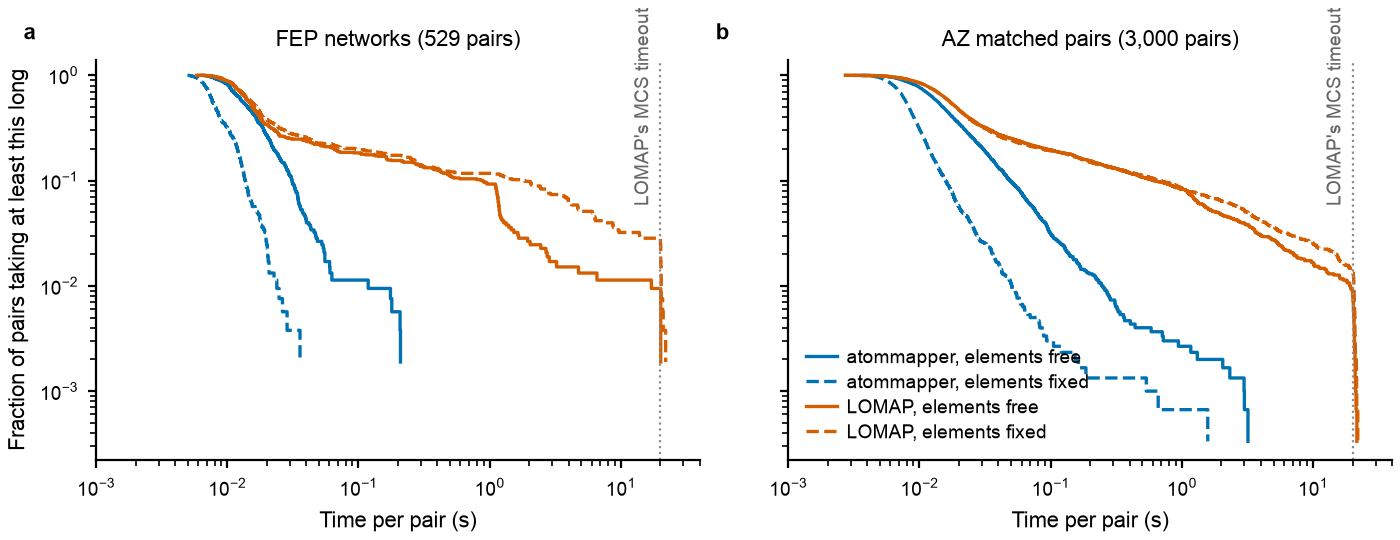
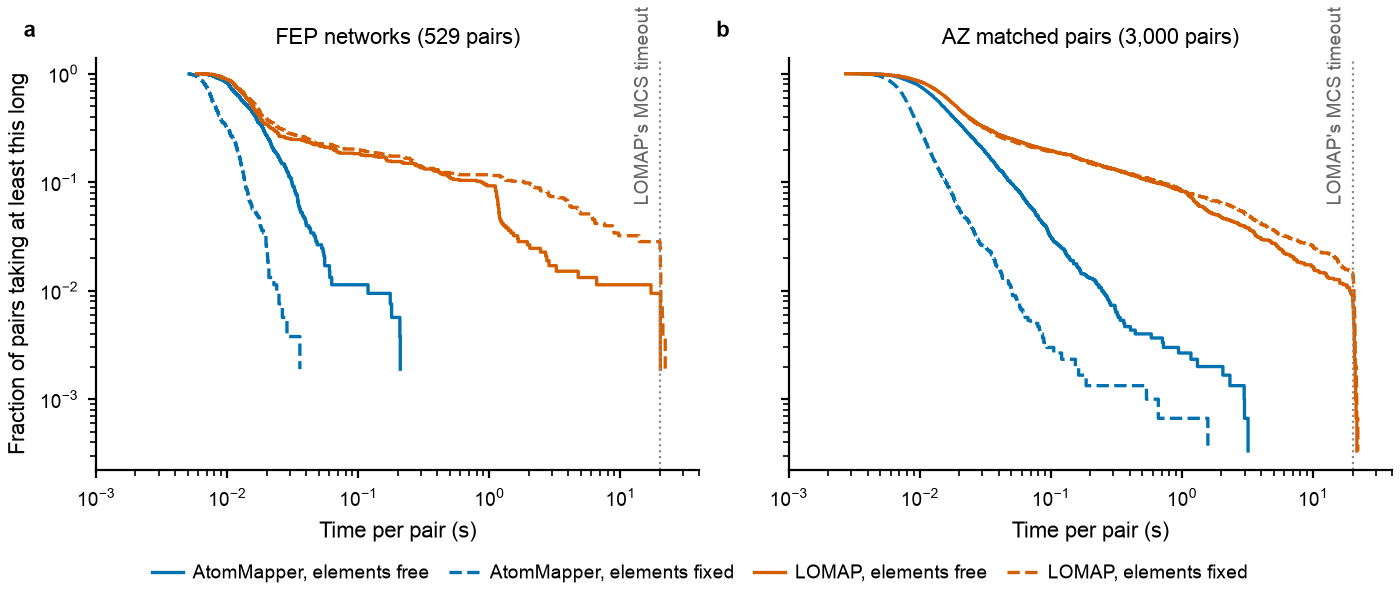
Write AtomMapper in the docs; move the timing legend below the panels
Prose, docstrings, summary labels and the figure legend name the tool
AtomMapper; the package, the import, the command and the URLs stay
atommapper. The legend of the timing figure, which covered a curve, now sits
in one row under both panels.

diff --git a/benchmarks/compare_lomap.py b/benchmarks/compare_lomap.py
@@ -1,4 +1,4 @@
-"""atommapper against OpenFE's LOMAP: time and result on the same pairs, side by side.
+"""AtomMapper against OpenFE's LOMAP: time and result on the same pairs, side by side.
 
 Usage: python benchmarks/compare_lomap.py run PAIRS.csv OUT.jsonl [--workers N] [--limit N]
        python benchmarks/compare_lomap.py summary OUT.jsonl [OUT.jsonl ...]
@@ -15,8 +15,8 @@ Each pair is mapped, in the same worker one after the other, by:
 
 each with elements free (LOMAP's ``element_change=True``) and fixed. Times are wall clock
 for the whole call from the SMILES strings. Every mapping is then judged the same way, by
-atommapper's own code: the atoms and bonds it keeps, the size of the change, and which of
-LOMAP's rules (as atommapper states them) it breaks.
+AtomMapper's own code: the atoms and bonds it keeps, the size of the change, and which of
+LOMAP's rules (as AtomMapper states them) it breaks.
 """
 
 import argparse
@@ -47,7 +47,7 @@ MODES = {"free": True, "fixed": False}
 
 def canonical(smiles: str) -> str:
     """The same string for both tools: canonical SMILES, hydrogens implicit, so atom indices
-    agree between LOMAP's molecule and atommapper's input."""
+    agree between LOMAP's molecule and AtomMapper's input."""
     return Chem.MolToSmiles(Chem.MolFromSmiles(smiles))
 
 
@@ -93,7 +93,7 @@ def atommapper_map(
 
 
 def judged(source: str, target: str, pairs: list[tuple[int, int]], element_change: bool) -> dict:
-    """A mapping in atommapper's terms: what it keeps, the size of the change, the rules it
+    """A mapping in AtomMapper's terms: what it keeps, the size of the change, the rules it
     breaks and its key up to symmetry."""
     colors = coloring("ring" if element_change else "element-ring")
     s = build_view(parse(source, "source"), "source", colors)
@@ -205,7 +205,7 @@ def summary(paths: list[str]) -> str:
             f"MCS search reached its 20 s timeout on {_share(timeouts, n)} pairs.",
             "",
         ]
-        lines += ["| | LOMAP | atommapper (change) | atommapper (bonds) |", "|---|---|---|---|"]
+        lines += ["| | LOMAP | AtomMapper (change) | AtomMapper (bonds) |", "|---|---|---|---|"]
         for label, fn in (
             ("median time", lambda xs: _seconds(statistics.median(xs))),
             ("mean time", lambda xs: _seconds(statistics.fmean(xs))),
@@ -231,11 +231,11 @@ def summary(paths: list[str]) -> str:
 
         same = sum(r[f"bonds_{mode}"]["key"] == r[f"lomap_{mode}"]["key"] for r in ok)
         lines += [
-            f"- Bonds kept (LOMAP's objective), atommapper (bonds) against LOMAP: "
+            f"- Bonds kept (LOMAP's objective), AtomMapper (bonds) against LOMAP: "
             f"{_versus(ok, mode, 'bonds', 'bonds', 'more')}.",
-            f"- Size of the change (atommapper's objective), atommapper (change) against "
+            f"- Size of the change (AtomMapper's objective), AtomMapper (change) against "
             f"LOMAP: {_versus(ok, mode, 'change', 'size', 'fewer')}.",
-            f"- Same mapping as LOMAP, up to symmetry, for atommapper (bonds): "
+            f"- Same mapping as LOMAP, up to symmetry, for AtomMapper (bonds): "
             f"{_share(same, len(ok))}.",
             "",
         ]

diff --git a/benchmarks/plot_timing.py b/benchmarks/plot_timing.py
@@ -1,4 +1,4 @@
-"""The time per pair of LOMAP and atommapper, as the fraction of pairs that take at least a
+"""The time per pair of LOMAP and AtomMapper, as the fraction of pairs that take at least a
 given time, on log-log axes, so that the slow tail shows.
 
 Usage: python benchmarks/plot_timing.py FEP.jsonl AZ.jsonl OUT_STEM
@@ -22,8 +22,8 @@ from publication_plotting import (
 LOMAP_TIMEOUT = 20.0
 SERIES = (
     # (record key, legend, color, line style)
-    ("change_free", "atommapper, elements free", "#0072B2", "-"),
-    ("change_fixed", "atommapper, elements fixed", "#0072B2", "--"),
+    ("change_free", "AtomMapper, elements free", "#0072B2", "-"),
+    ("change_fixed", "AtomMapper, elements fixed", "#0072B2", "--"),
     ("lomap_free", "LOMAP, elements free", "#D55E00", "-"),
     ("lomap_fixed", "LOMAP, elements fixed", "#D55E00", "--"),
 )
@@ -42,7 +42,7 @@ def at_least(times: list[float]) -> tuple[np.ndarray, np.ndarray]:
 
 def main() -> None:
     fep_path, az_path, stem = sys.argv[1:4]
-    use_publication_style(preset=None, figsize=(7.0, 2.7), box=False)
+    use_publication_style(preset=None, figsize=(7.0, 3.0), box=False)
     fig, axes = plt.subplots(1, 2, sharey=True)
     datasets = (("FEP networks", records(fep_path)), ("AZ matched pairs", records(az_path)))
     for ax, (title, rows) in zip(axes, datasets, strict=True):
@@ -69,7 +69,9 @@ def main() -> None:
             title=f"{title} ({len(rows):,} pairs)",
         )
     axes[0].set_ylabel("Fraction of pairs taking at least this long")
-    axes[1].legend(loc="lower left", frameon=False)
+    # Outside the axes, in one row under both panels, so that it covers no curve.
+    handles, labels = axes[0].get_legend_handles_labels()
+    fig.legend(handles, labels, loc="outside lower center", ncols=4, frameon=False)
     label_panels(axes)
     save_publication_figure(fig, stem, formats=("png",), png_dpi=200, close=True)
 

diff --git a/rust/src/lib.rs b/rust/src/lib.rs
@@ -1,4 +1,4 @@
-//! atommapper's Stage 1 engine: step-budgeted connected common fragment search.
+//! AtomMapper's Stage 1 engine: step-budgeted connected common fragment search.
 //!
 //! The engine is plain Rust (`engine`); the Python binding below, built by maturin as
 //! `atommapper._mces`, only converts arguments and results.

diff --git a/benchmarks/README.md b/benchmarks/README.md
@@ -1,6 +1,6 @@
-# Benchmark: atommapper against LOMAP
+# Benchmark: AtomMapper against LOMAP
 
-`compare_lomap.py` maps the same pairs with OpenFE's LOMAP and with atommapper, one after
+`compare_lomap.py` maps the same pairs with OpenFE's LOMAP and with AtomMapper, one after
 the other in the same worker, and judges every mapping with the same code: the atoms and
 bonds it keeps, the size of the change, and which of LOMAP's rules it breaks.
 
@@ -9,8 +9,8 @@ bonds it keeps, the size of the change, and which of LOMAP's rules it breaks.
 - **LOMAP**: `lomap.mcs.MCS` (LOMAP 3.3.0) with its defaults: 2D and a 20 s timeout on
   each MCS search. Its input is the molecule from SMILES with hydrogens added and 2D
   coordinates; its output is the heavy-atom map. Scoring is not run.
-- **atommapper (change)**: `map_atoms` with its default objective, the smallest change.
-- **atommapper (bonds)**: `map_atoms(objective="bonds")`, LOMAP's objective: the most
+- **AtomMapper (change)**: `map_atoms` with its default objective, the smallest change.
+- **AtomMapper (bonds)**: `map_atoms(objective="bonds")`, LOMAP's objective: the most
   bonds kept, then the most atoms, then the smallest change.
 
 Each method runs with elements free (LOMAP's default `element_change=True`) and with
@@ -30,15 +30,15 @@ elements fixed. Times are wall clock for the whole call from the SMILES strings.
 ## Results
 
 Run on 2026-11-16 on an AMD Ryzen Threadripper PRO 5975WX (32 cores, 64 threads) with 32
-workers, Python 3.12, RDKit 2026.03.6, LOMAP 3.3.0 and atommapper 0.1.0. No method failed
-on any pair. atommapper (bonds) times the same as atommapper (change) to within a few
+workers, Python 3.12, RDKit 2026.03.6, LOMAP 3.3.0 and AtomMapper 0.1.0. No method failed
+on any pair. AtomMapper (bonds) times the same as AtomMapper (change) to within a few
 milliseconds, so the figure shows only the latter.
 
 ### Time per pair
 
-![Fraction of pairs taking at least a given time, log-log: atommapper's curves fall off below a second, LOMAP's run on to its 20 s timeout](timing.png)
+![Fraction of pairs taking at least a given time, log-log: AtomMapper's curves fall off below a second, LOMAP's run on to its 20 s timeout](timing.png)
 
-atommapper is 1.1-2.4 times faster at the median and takes at most 3.2 s on any pair.
+AtomMapper is 1.1-2.4 times faster at the median and takes at most 3.2 s on any pair.
 LOMAP's slow tail comes from its MCS search: it reached the 20 s timeout on 4 and 14 of
 the FEP pairs (elements free and fixed) and on 24 and 41 of the AZ pairs, and LOMAP then
 goes on with the MCS found so far.
@@ -54,14 +54,14 @@ goes on with the MCS found so far.
 | larger change than LOMAP (change) | 0 | 0 | 7 | 8 |
 | LOMAP's mapping inverts a stereo element | 0 | 0 | 15 | 14 |
 
-- **Where atommapper keeps more bonds**, LOMAP's MCS search had mostly timed out (2 of 2
+- **Where AtomMapper keeps more bonds**, LOMAP's MCS search had mostly timed out (2 of 2
   FEP pairs with elements fixed, 18 of the 29 AZ pairs).
-- **Where atommapper keeps fewer bonds** (7 and 8 AZ pairs), LOMAP's mapping keeps a
-  stereo element inverted every time, as atommapper judges it. LOMAP's own check compares a
+- **Where AtomMapper keeps fewer bonds** (7 and 8 AZ pairs), LOMAP's mapping keeps a
+  stereo element inverted every time, as AtomMapper judges it. LOMAP's own check compares a
   centre's neighbours within its heavy-atom match only, so it can miss an inversion, for
   instance one that the centre's hydrogen decides (README, "The rules"). Among the mappings
-  that satisfy the rules, atommapper never keeps fewer bonds than LOMAP.
-- **Where atommapper makes a smaller change**, it mostly keeps the same bonds as LOMAP
+  that satisfy the rules, AtomMapper never keeps fewer bonds than LOMAP.
+- **Where AtomMapper makes a smaller change**, it mostly keeps the same bonds as LOMAP
   (1 of 1, 5 of 7, 57 of 74 and 33 of 45 pairs): LOMAP chose among mappings that keep as
   many bonds without looking at the change. In the other pairs it keeps more bonds too.
 - No mapping by either tool breaks the other rules: one piece, complete rings, no bond

diff --git a/README.md b/README.md
@@ -1,4 +1,4 @@
-# atommapper
+# AtomMapper
 
 Atom mapping of two molecules under the rules of LOMAP's mapping step. Given a source
 and a target, it finds which heavy atoms are the same atom, keeping one connected piece
@@ -230,7 +230,7 @@ maximum common substructure after choosing it.
 ## Compared with LOMAP
 
 On the free energy networks of the protein-ligand benchmark and on AstraZeneca matched
-pairs, atommapper finds the same mapping as OpenFE's LOMAP for 95-98% of the pairs, up to
+pairs, AtomMapper finds the same mapping as OpenFE's LOMAP for 95-98% of the pairs, up to
 symmetry. It is 1.1-2.4 times faster on a typical pair and has none of LOMAP's slow tail,
 which runs into its 20 s timeout on 1-3% of the pairs.
 [benchmarks/README.md](https://github.com/craabreu/atommapper/blob/main/benchmarks/README.md)
@@ -256,7 +256,7 @@ make format   # ruff and cargo fmt
 make check    # ruff, ty, cargo fmt and clippy, the Rust tests, a rebuild, pytest
 ```
 
-atommapper was extracted from moldelta, a molecule-diff tool, where this mapping was
+AtomMapper was extracted from moldelta, a molecule-diff tool, where this mapping was
 `lomap_map`.
 
 ## License
